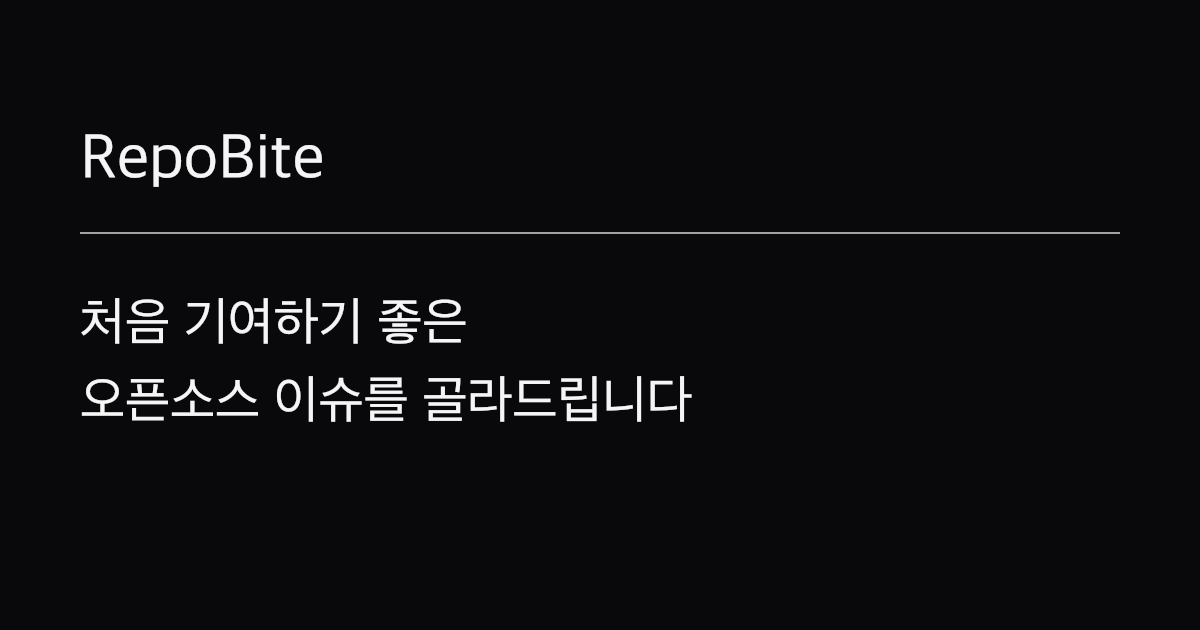
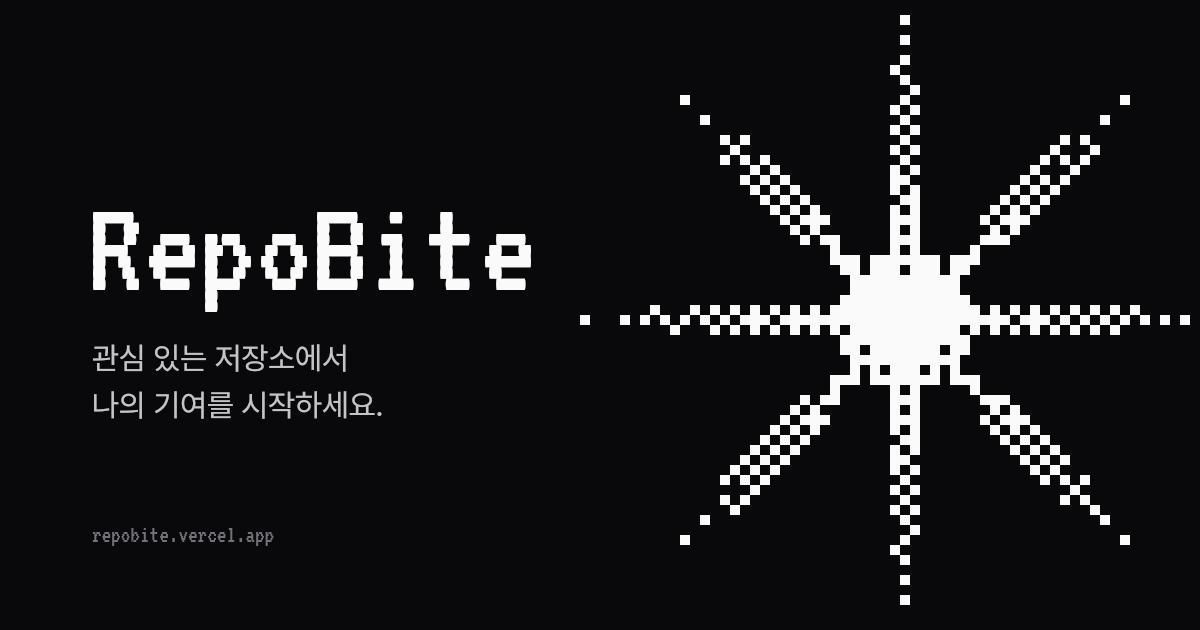
style(share): 온보딩 꽃잎을 활용한 공유 미리보기로 교체

diff --git a/web.html b/web.html
@@ -2,13 +2,13 @@
 <html lang="ko">
 <head>
 <meta charset="utf-8"><meta name="viewport" content="width=device-width,initial-scale=1">
-<title>RepoBite | 초보자가 바로 손댈 수 있는 오픈소스 이슈</title>
-<meta name="description" content="라벨이 아니라 이슈 본문을 AI가 읽고, 처음 기여할 오픈소스 이슈를 찾도록 도와드립니다.">
+<title>RepoBite | 관심 있는 저장소에서 시작하는 기여</title>
+<meta name="description" content="관심 있는 오픈소스 저장소를 구독하고, 난이도에 맞는 이슈를 찾아보세요.">
 <meta property="og:type" content="website">
 <meta property="og:site_name" content="RepoBite">
 <meta property="og:url" content="https://repobite.vercel.app/">
-<meta property="og:title" content="RepoBite | 초보자가 바로 손댈 수 있는 오픈소스 이슈">
-<meta property="og:description" content="라벨이 아니라 이슈 본문을 AI가 읽고, 처음 기여할 오픈소스 이슈를 찾도록 도와드립니다.">
+<meta property="og:title" content="RepoBite | 관심 있는 저장소에서 시작하는 기여">
+<meta property="og:description" content="관심 있는 오픈소스 저장소를 구독하고, 난이도에 맞는 이슈를 찾아보세요.">
 <meta property="og:image" content="https://repobite.vercel.app/og.png">
 <meta property="og:image:width" content="1200">
 <meta property="og:image:height" content="630">

diff --git a/docs/웹-디자인-레퍼런스.md b/docs/웹-디자인-레퍼런스.md
@@ -305,3 +305,14 @@ Layers와 닮은 탐색 경험은 유지하되 원본 서비스로 오인될 만
 검증: `test_loading_browser.cjs`는 1440/1000/390/320px에서 검색 로딩의 내부 배치·원본 창 높이·검색 전후 크기 고정을 검사한다. `test_subscription_auth_browser.cjs`는 메인·my 로그인 후 신규 계정의 전체 온보딩 진입, 완료 계정의 고정 CTA, 두 저장소와 개인화·알림 저장 시 로딩 열림 1회·닫힘 1회 및 각 쓰기 중 표시 유지를 검사한다. 기존 부분 실패 재시도·인증 만료·선택 복원도 통과했다. Python 계정 13건, JavaScript 11건과 상세·2단계 온보딩 브라우저 회귀도 통과했다.
 
 정식 주소 `https://repobite.vercel.app`에서 배포 `dpl_28csvdeNb1u365kwkXMVdi7zNXWT`의 Ready와 별칭 연결을 확인했다. HTML·앱·CSS·검색 모듈·data.json은 일반 HTTPS 200이며 SSO 이동 없이 로컬 SHA-256과 일치한다. 최종 운영 프런트엔드에서도 모의 신규 계정·다중 저장·검색 로딩 회귀를 실행했다. 실제 사용자 OAuth 인증과 구독 쓰기는 실행하지 않았다. [운영 검색 로딩 390px](verification/subscription-redesign-261023/flow-refinements/production-search-loading-390.png), [320px](verification/subscription-redesign-261023/flow-refinements/production-search-loading-320.png), [내부 배치 좌표](verification/subscription-redesign-261023/flow-refinements/production-check.json), [자산 대조](verification/subscription-redesign-261023/flow-refinements/production-assets.json).
+
+
+### 메인 탐색 복원과 추천 목록 제거 (2026-10-26)
+
+사용자 결정: 쉬운 이슈라는 이유만으로 기여할 저장소를 고르게 하지 않는다. 관심 분야·저장소를 선택하고 그 안에서 난이도에 맞는 이슈를 보는 기존 흐름을 유지한다.
+
+- 메인에 추가했던 서비스 소개 네 줄과 전체 쉬움 추천 목록을 제거한다. 온보딩 완료 후나 별도 화면으로 전체 추천 목록을 옮기지 않는다.
+- 탐색 메인의 기존 카드, 카테고리·검색, `레포바이트 이용하기`에서 관심 분야 선택으로 이어지는 흐름을 유지한다.
+- 공유 이미지는 기존 텍스트 중심 이미지의 재작업을 요청받았다. 원본은 `repobite-dither.js`의 `shapes.burst`, 온보딩 마지막 알림 단계의 꽃잎이다. 사용자는 B 시안인 오른쪽 확대 배치를 선택했다. 검은 배경, 왼쪽 RepoBite 이름과 짧은 문구, 오른쪽 큰 픽셀 꽃잎을 사용한다. 운영 파일은 `og.png`(1200x630, 27,819바이트)다. 공유 제목은 `RepoBite | 관심 있는 저장소에서 시작하는 기여`, 설명은 `관심 있는 오픈소스 저장소를 구독하고, 난이도에 맞는 이슈를 찾아보세요.`다.
+
+시안 기록: [A 가운데 배치](../design/launch-og/center.png), [B 오른쪽 확대 배치, 사용자 선택](../design/launch-og/side.png). 기존 코드의 꽃잎과 프로젝트 서체를 재사용했으며 패키지를 추가하지 않았다.

diff --git a/docs/홍보-준비-검증.md b/docs/홍보-준비-검증.md
@@ -1,6 +1,20 @@
-# 홍보 준비 최초 배포 검증
+# 홍보 준비 검증
 
-현재 상태: 아래는 `b17fd00` 최초 배포의 기록이다. 배포 확인 뒤 사용자가 메인 소개 문구 제거, 추천 목록의 이용 시작·온보딩 연결, 꽃잎을 활용한 공유 이미지 재작업을 지시했다. 이 문서를 최종 승인된 UI로 취급하지 않는다. 후속 수정과 재배포는 진행 중이다.
+## 최신 상태: 메인 복원 완료, 공유 이미지 재작업 중
+
+- 사용자는 메인 소개 문구와 전체 추천 목록을 제거하도록 지시했다. 후속 확인에서 별도 추천 화면도 만들지 않고 기존 관심 분야·저장소 중심 흐름을 유지하기로 했다.
+- 복원 커밋: `cc229c4`, `fix(explore): 소개와 전체 추천을 제거하고 저장소 탐색을 복원`.
+- 변경 파일: `AGENTS.md`, `README.md`, `repobite-app.mjs`, `repobite.css`, `test_web_ui.mjs`, `test_launch_browser.cjs`.
+- 운영 배포: `dpl_GTDpuev5FKx8Q6NLVEepHuJnWTGj`, 2026-10-26 10:31:10 KST 생성, Ready. 정식 주소 연결을 `vercel inspect`으로 확인했다.
+- 정식 주소 HTML·JS·CSS·og.png·data.json 모두 공개 HTTP 200, 리다이렉트 없음, 로컬 파일과 일치. [재배포 파일 검증](verification/launch-readiness/restored-assets.json).
+- 실제 Chrome에서 소개·추천이 없는 카드 중심 메인, `레포바이트 이용하기` 클릭 후 관심 분야 선택, 닫기 후 탐색 복귀를 확인했다. [복원된 메인](verification/launch-readiness/restored-main.png).
+- Node UI 8개 통과. 새 브라우저 회귀 검증: 폭 1440/1000/767/390/320px, 집계 visit·issue_click, 의견 실패 후 재전송 2회, 페이지 오류 0. 기존 브라우저 회귀 검증도 통과했다.
+- `featured_click` 저장 항목은 최초 집계 조회 호환성을 위해 서버에 남겼지만 현재 화면에서는 전송하지 않는다. 새 추천 화면이나 온보딩 이후 전체 추천은 추가하지 않았다.
+- 공유 이미지는 사용자가 B 시안(오른쪽 큰 꽃잎)을 선택했다. `og.png`와 공유 메타 문구를 교체했으며 재배포·카카오 재확인은 진행 중이다. 아래 최초 카카오 확인 기록은 교체 전 이미지에 대한 결과다.
+
+## 최초 배포 기록
+
+아래는 `b17fd00` 최초 배포 당시의 구현과 검증이다. 소개·추천 UI는 최종 승인 상태가 아니며 위 최신 상태를 우선한다.
 
 확인일: 2026-10-26 KST. 구현 브랜치: `feat/launch-readiness`, 기준 커밋: `abaf5c9`.
 운영 코드 커밋: `b17fd00`. 소개, 수집 시각, 추천 목록, 공유 미리보기, 익명 집계·의견 접수를 운영에 반영했다.
